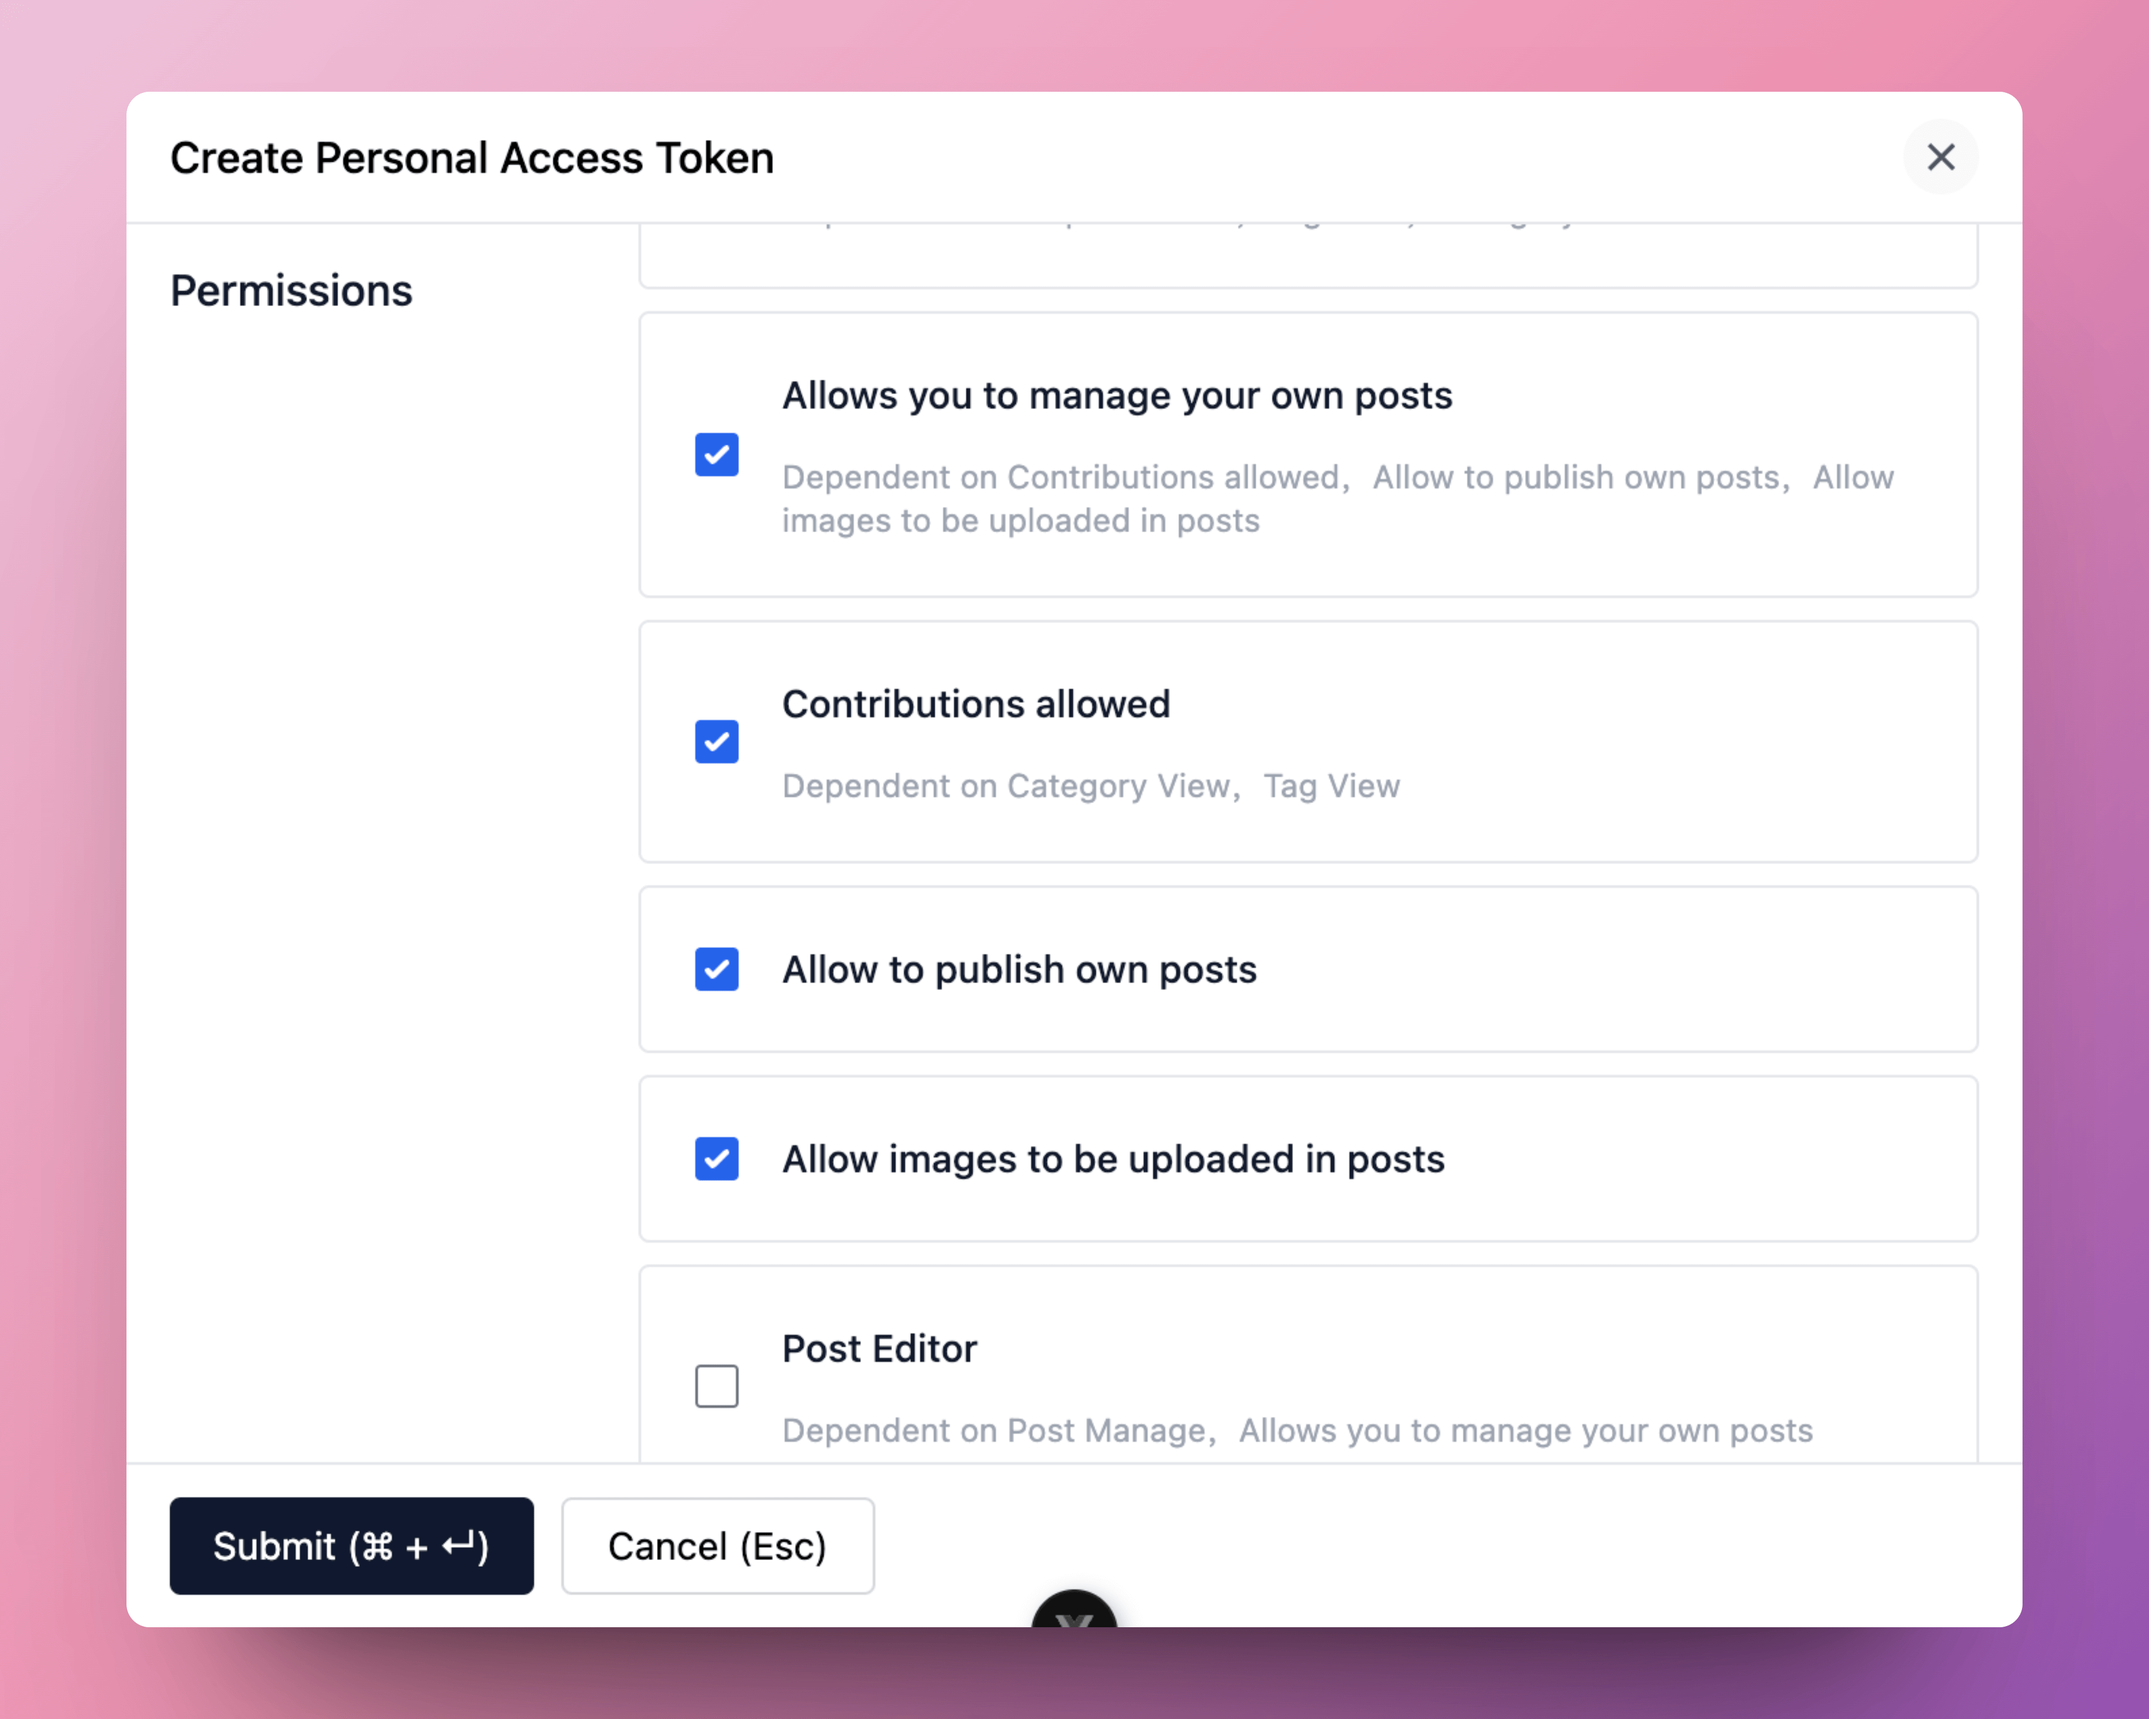
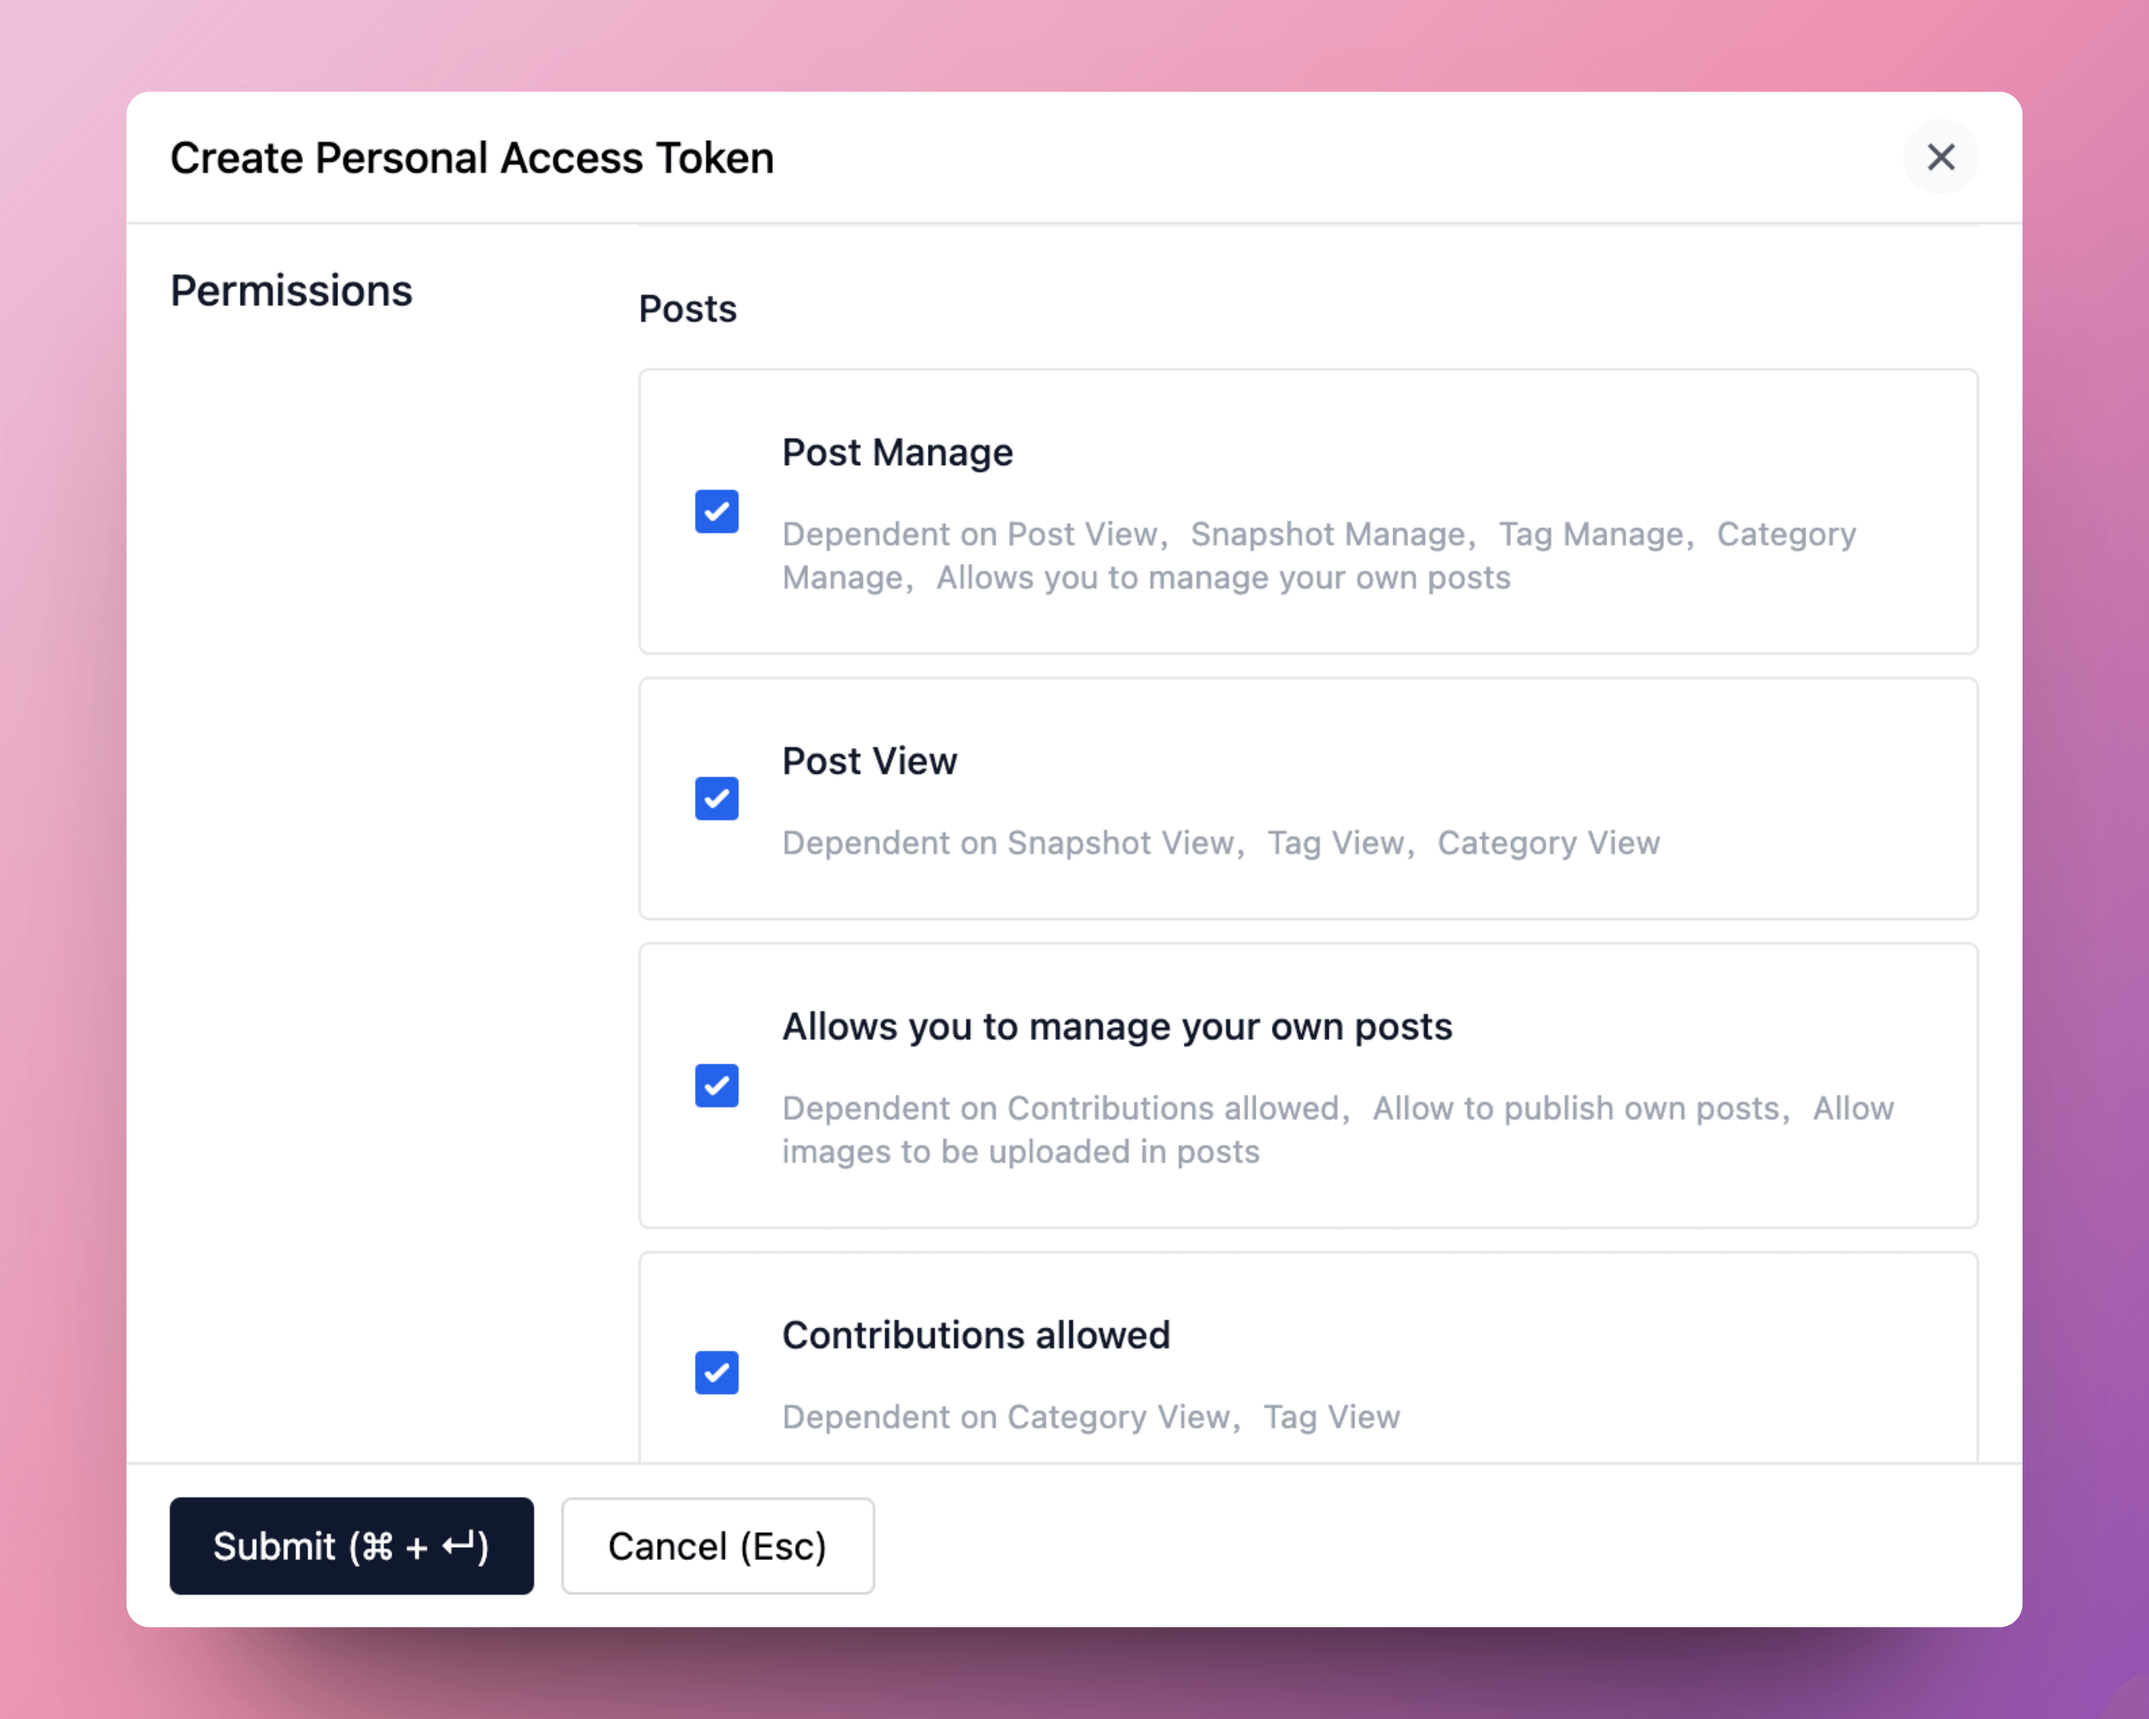
docs: update readme

diff --git a/README.md b/README.md
@@ -36,7 +36,7 @@ Before using this extension, make sure you have the following prerequisites:
    1. Site url: The URL of your Halo site, e.g. `https://example.com`
    2. Personal access token:
 
-       The personal access token of your Halo site, needs `Allows you to manage your own posts` permission.
+       The personal access token of your Halo site, needs `Post Manage` permission.
 
        ![PAT](./images/pat-en.png)
 

diff --git a/README.zh-CN.md b/README.zh-CN.md
@@ -36,7 +36,7 @@
    1. 站点地址: Halo 网站的访问地址，示例：`https://example.com`
    2. 个人令牌:
 
-       Halo 网站的个人令牌，需要 `允许管理自己的文章` 的权限
+       Halo 网站的个人令牌，需要 `文章管理` 的权限
 
        ![PAT](./images/pat-zh.png)
 

diff --git a/CHANGELOG.md b/CHANGELOG.md
@@ -2,6 +2,8 @@
 
 ## next
 
+⚠ Due to changes in the api authentication method in this version, it is necessary to rerun `Halo Setup`.
+
 - Log in with Personal Access Token instead of password
 - Refactor post related api
 - Support setting of slug, excerpt and cover in Front Matter
